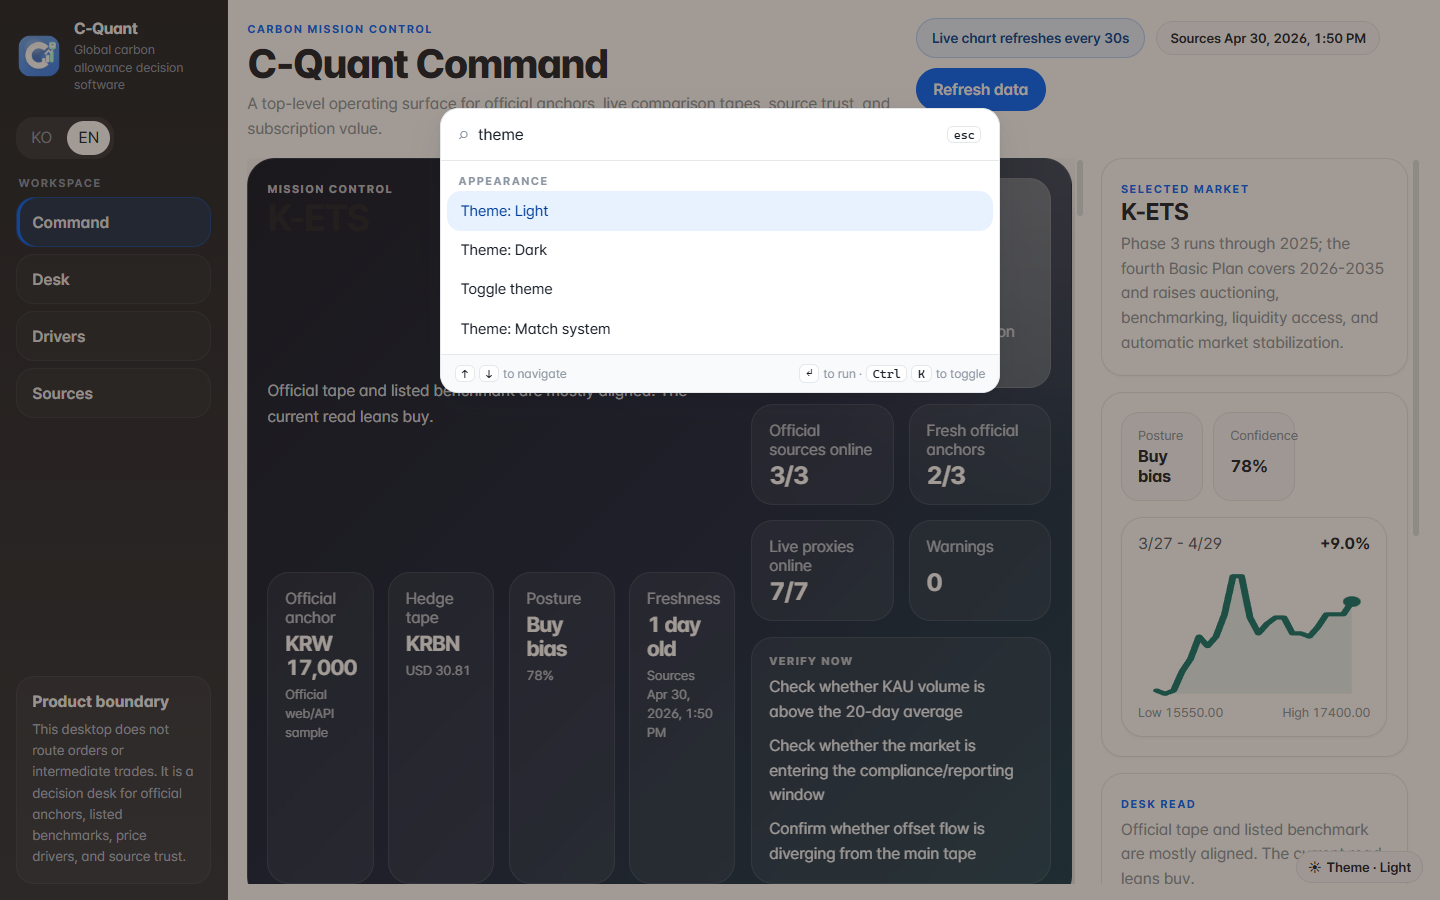
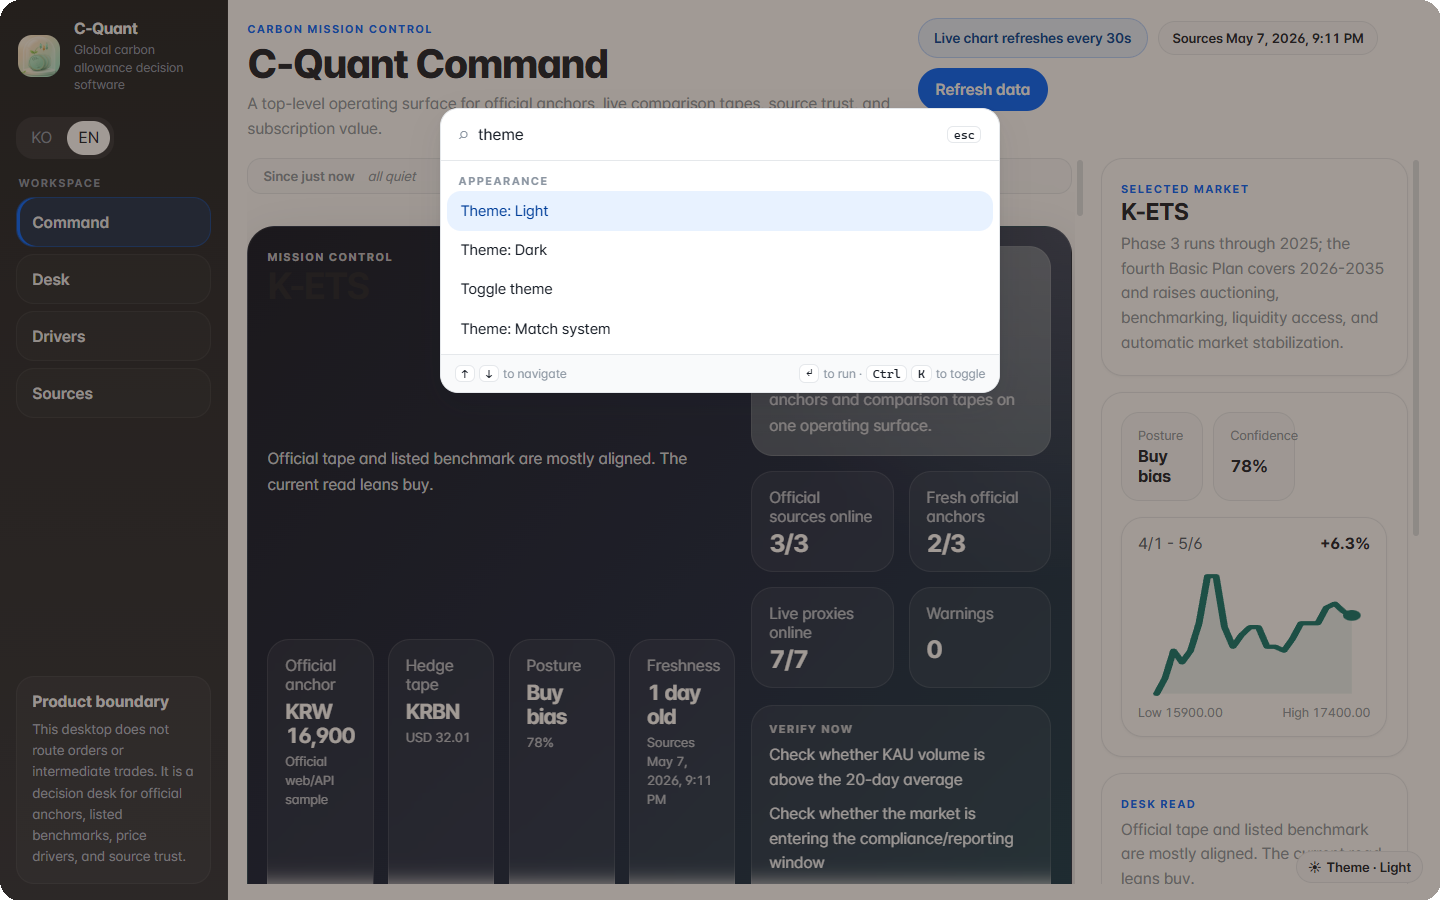
docs(images): re-capture screenshots and round their corners (#1)
Fresh capture of the 8 README/USAGE screenshots, then apply a 20px
rounded-rectangle alpha mask so the outer image frame matches the
--radius-xl cards inside the app. Add tools/round-screenshot-corners.py
so future re-captures can re-apply the same rounding.

diff --git a/tools/round-screenshot-corners.py b/tools/round-screenshot-corners.py
@@ -1,0 +1,59 @@
+"""
+Apply rounded corners (alpha-cut) to README / USAGE screenshots in
+docs/images/ so the outer image frame matches the rounded cards inside
+the app UI.
+
+Run: python tools/round-screenshot-corners.py
+"""
+
+from pathlib import Path
+from PIL import Image, ImageDraw
+
+ROOT = Path(__file__).resolve().parents[1]
+IMAGES = ROOT / "docs" / "images"
+
+# Native screenshot capture is 1440 wide. The app's largest cards use
+# --radius-xl: 22px. 20px keeps the outer frame visually consistent
+# without dwarfing the inner cards once GitHub scales the image down.
+RADIUS = 20
+
+TARGETS = [
+    "shot-cmd-k.png",
+    "shot-command-dark.png",
+    "shot-command-light-ko.png",
+    "shot-command-light.png",
+    "shot-desk-light.png",
+    "shot-drivers-light.png",
+    "shot-sources-light.png",
+    "shot-watchlist-drawer.png",
+]
+
+
+def round_corners(path: Path, radius: int) -> None:
+    image = Image.open(path).convert("RGBA")
+    mask = Image.new("L", image.size, 0)
+    ImageDraw.Draw(mask).rounded_rectangle(
+        (0, 0, image.size[0], image.size[1]),
+        radius=radius,
+        fill=255,
+    )
+    # Composite the source image onto a transparent canvas using the
+    # rounded-rectangle mask as the alpha channel. This preserves the
+    # original RGB pixels and only zeroes out the four corners.
+    out = Image.new("RGBA", image.size, (0, 0, 0, 0))
+    out.paste(image, (0, 0), mask)
+    out.save(path, "PNG", optimize=True)
+    print(f"rounded {path.relative_to(ROOT)}")
+
+
+def main() -> None:
+    for name in TARGETS:
+        path = IMAGES / name
+        if not path.exists():
+            print(f"skip (missing): {path.relative_to(ROOT)}")
+            continue
+        round_corners(path, RADIUS)
+
+
+if __name__ == "__main__":
+    main()
